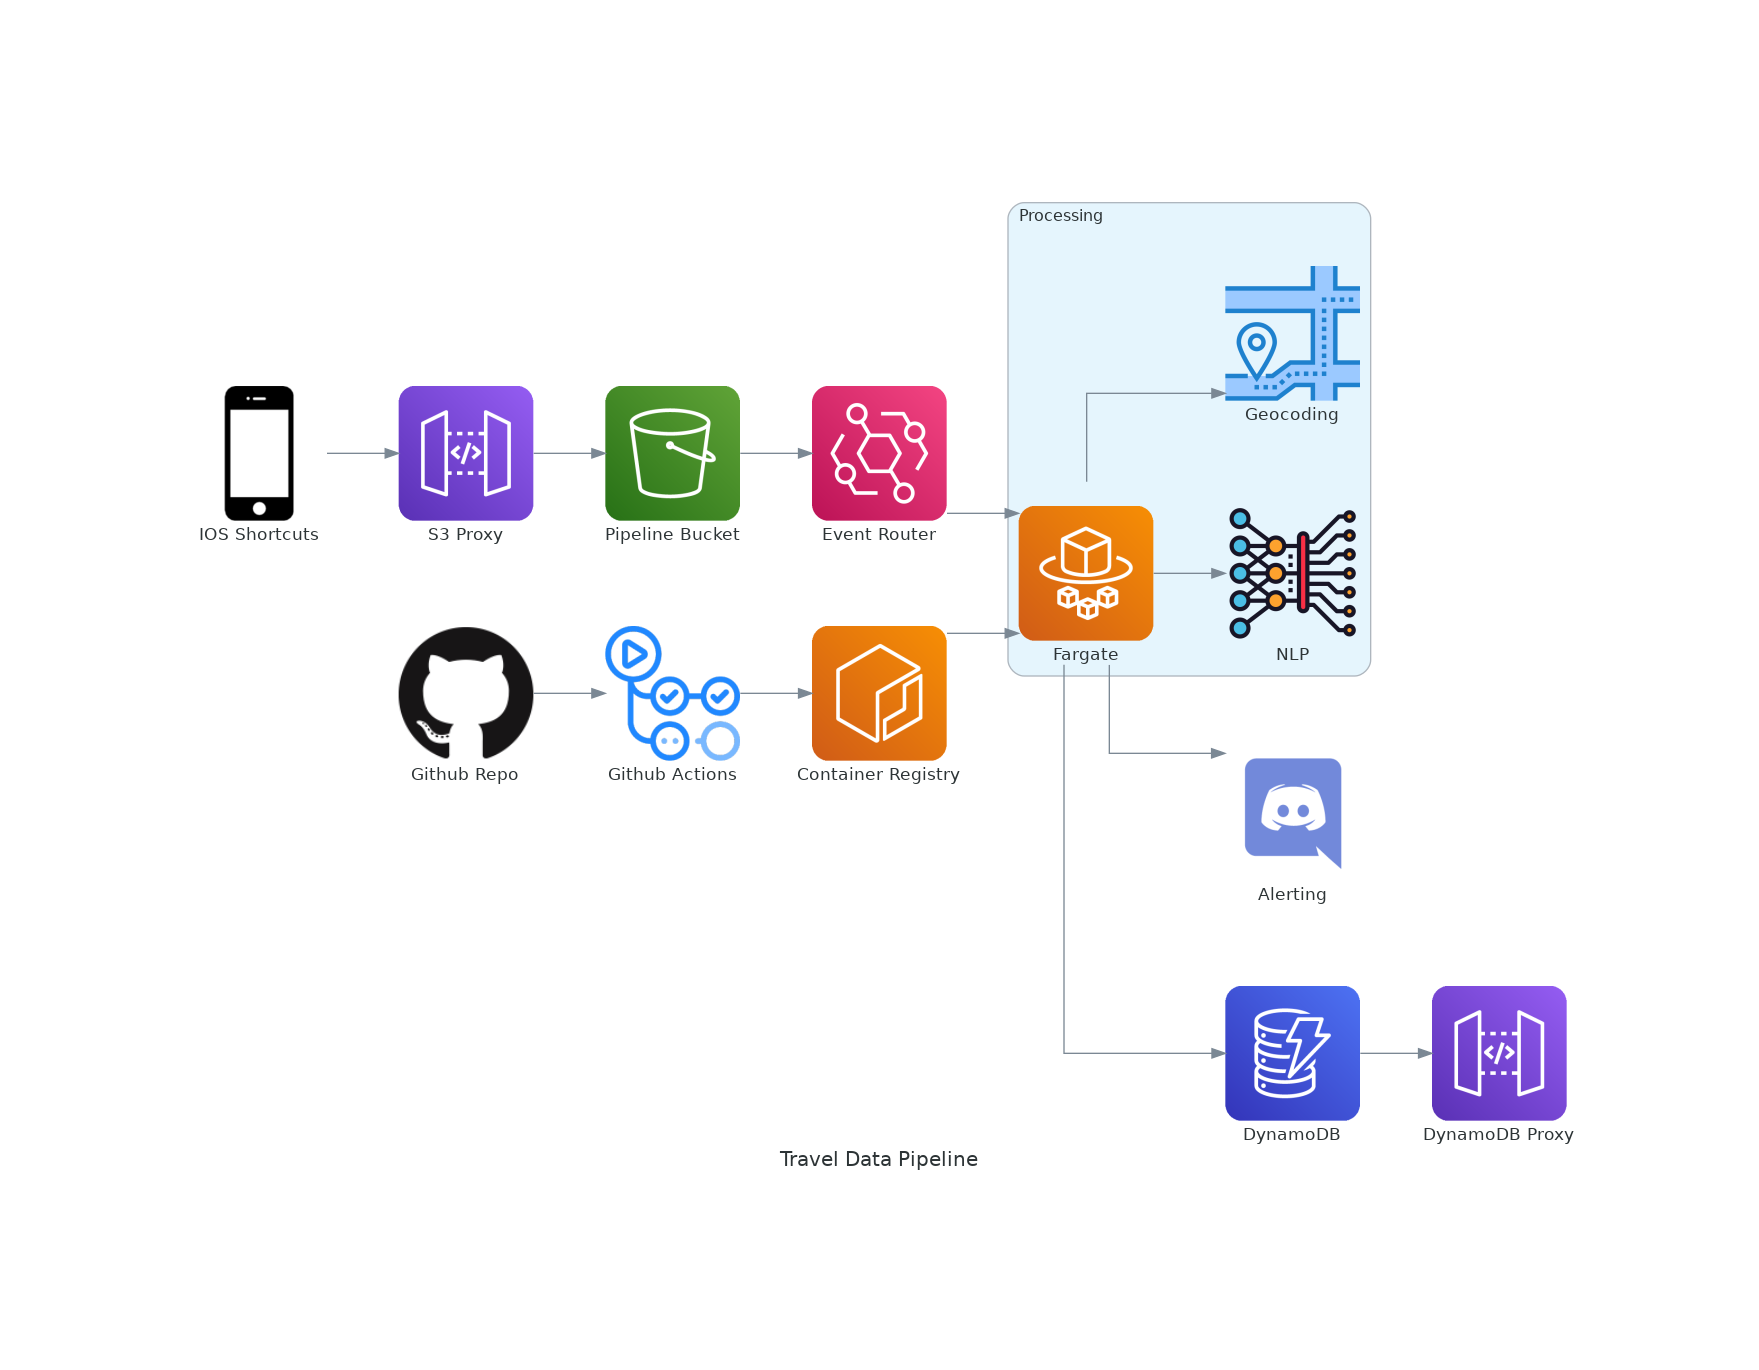
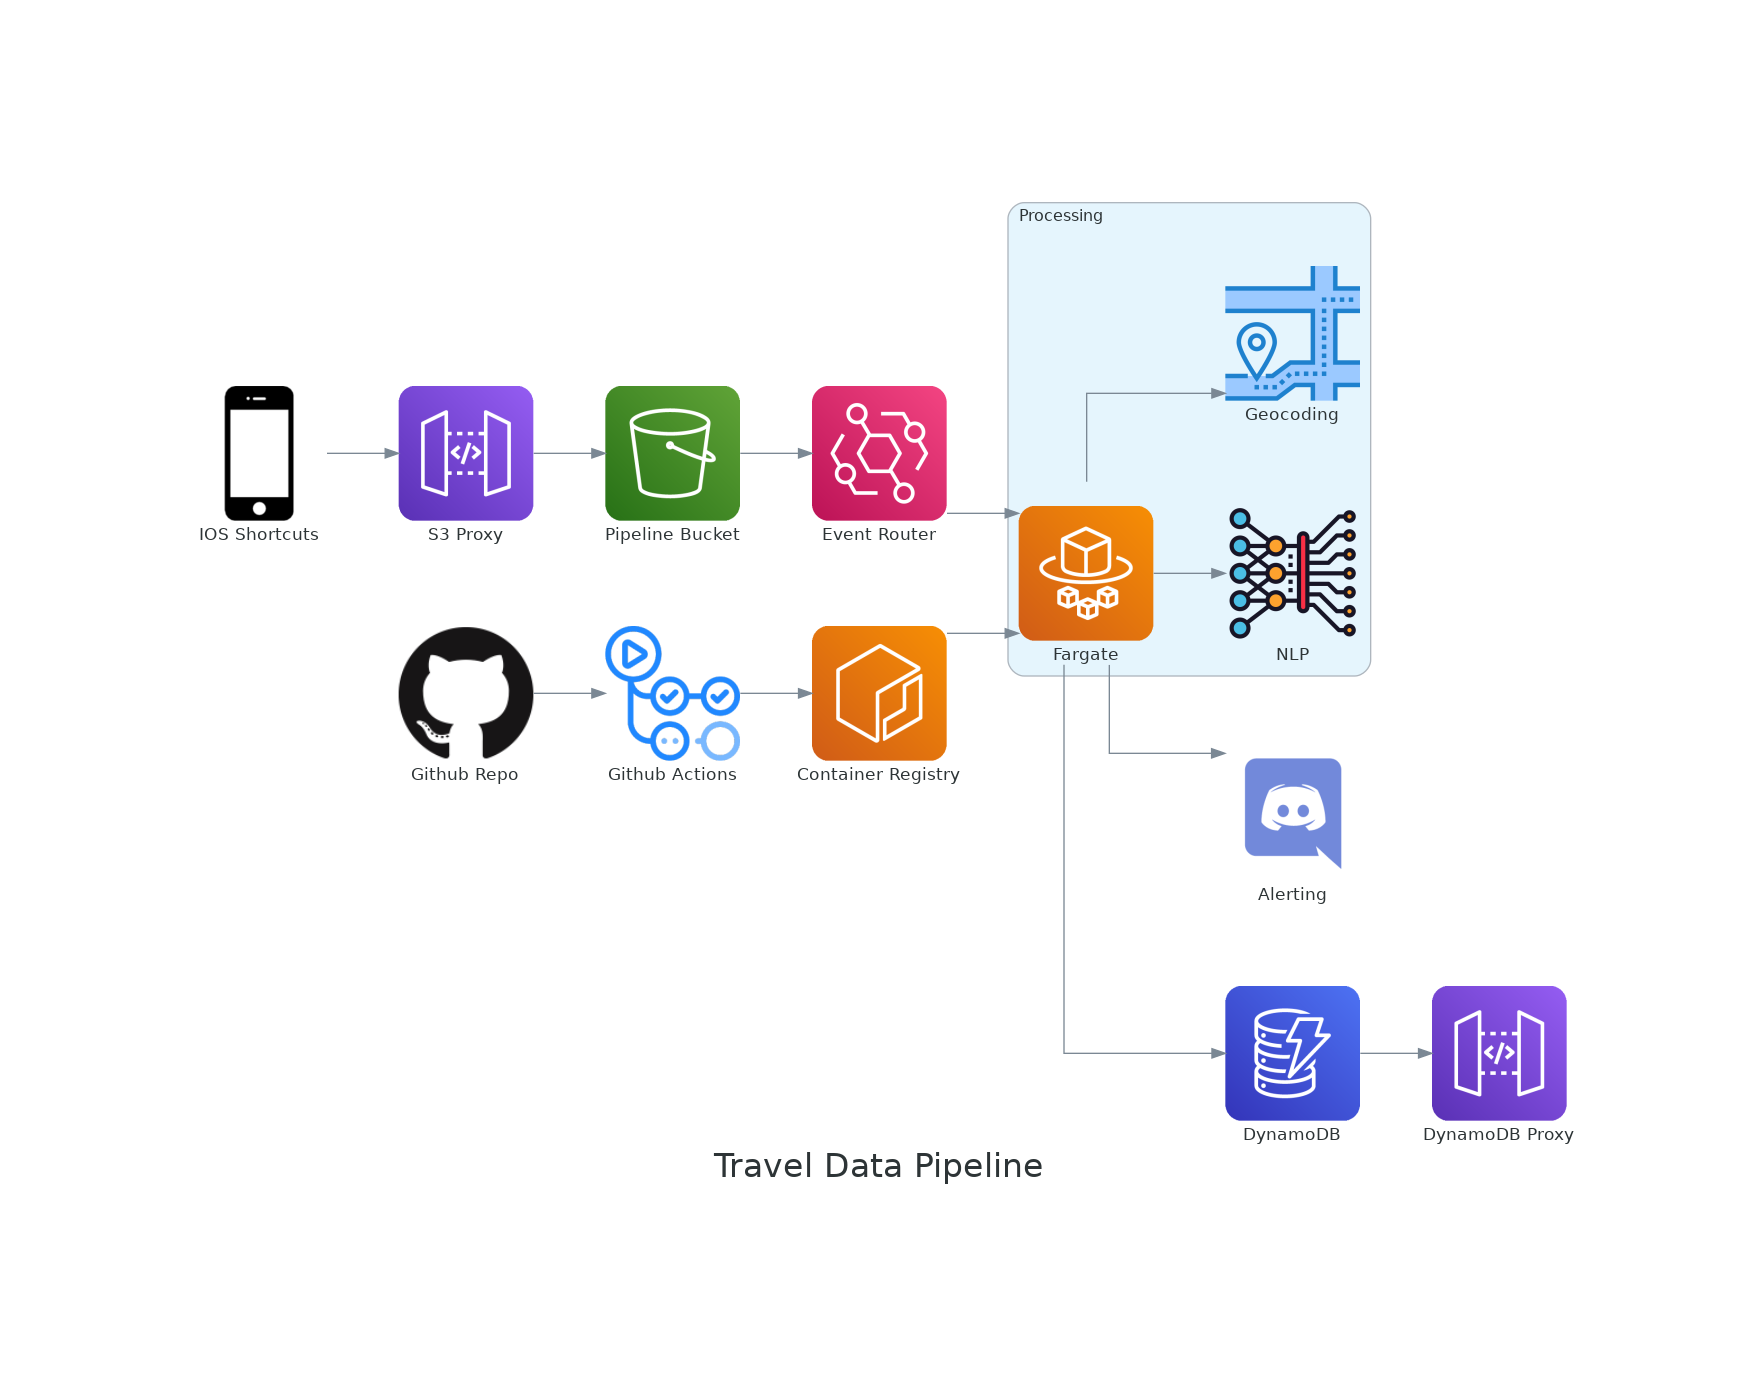
Styling architecture diagram.

diff --git a/diagrams/architecture.py b/diagrams/architecture.py
@@ -11,7 +11,12 @@ from diagrams.generic.device import Mobile
 from diagrams.custom import Custom
 from diagrams.saas.chat import Discord
 
-with Diagram('Travel Data Pipeline', show=False):
+graph_attr = {
+    'fontsize': '25',
+    'bgcolor': 'transparent'
+}
+
+with Diagram('Travel Data Pipeline', show=False, graph_attr=graph_attr):
     mobile = Mobile('IOS Shortcuts')
     s3_proxy = APIGateway('S3 Proxy')
     s3 = S3('Pipeline Bucket')
